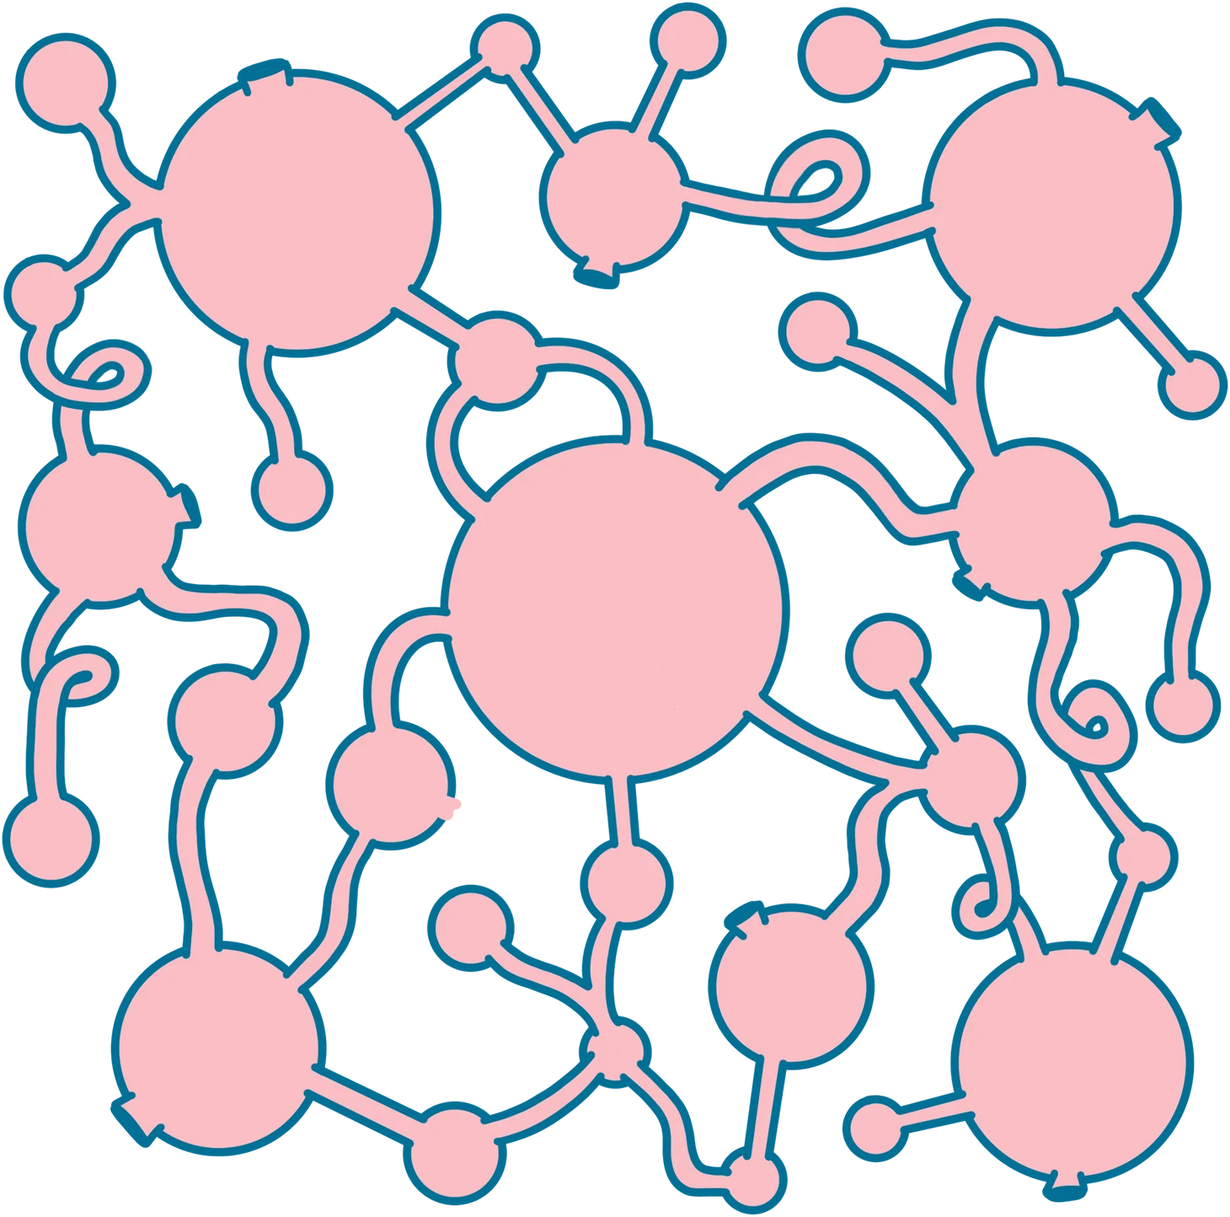
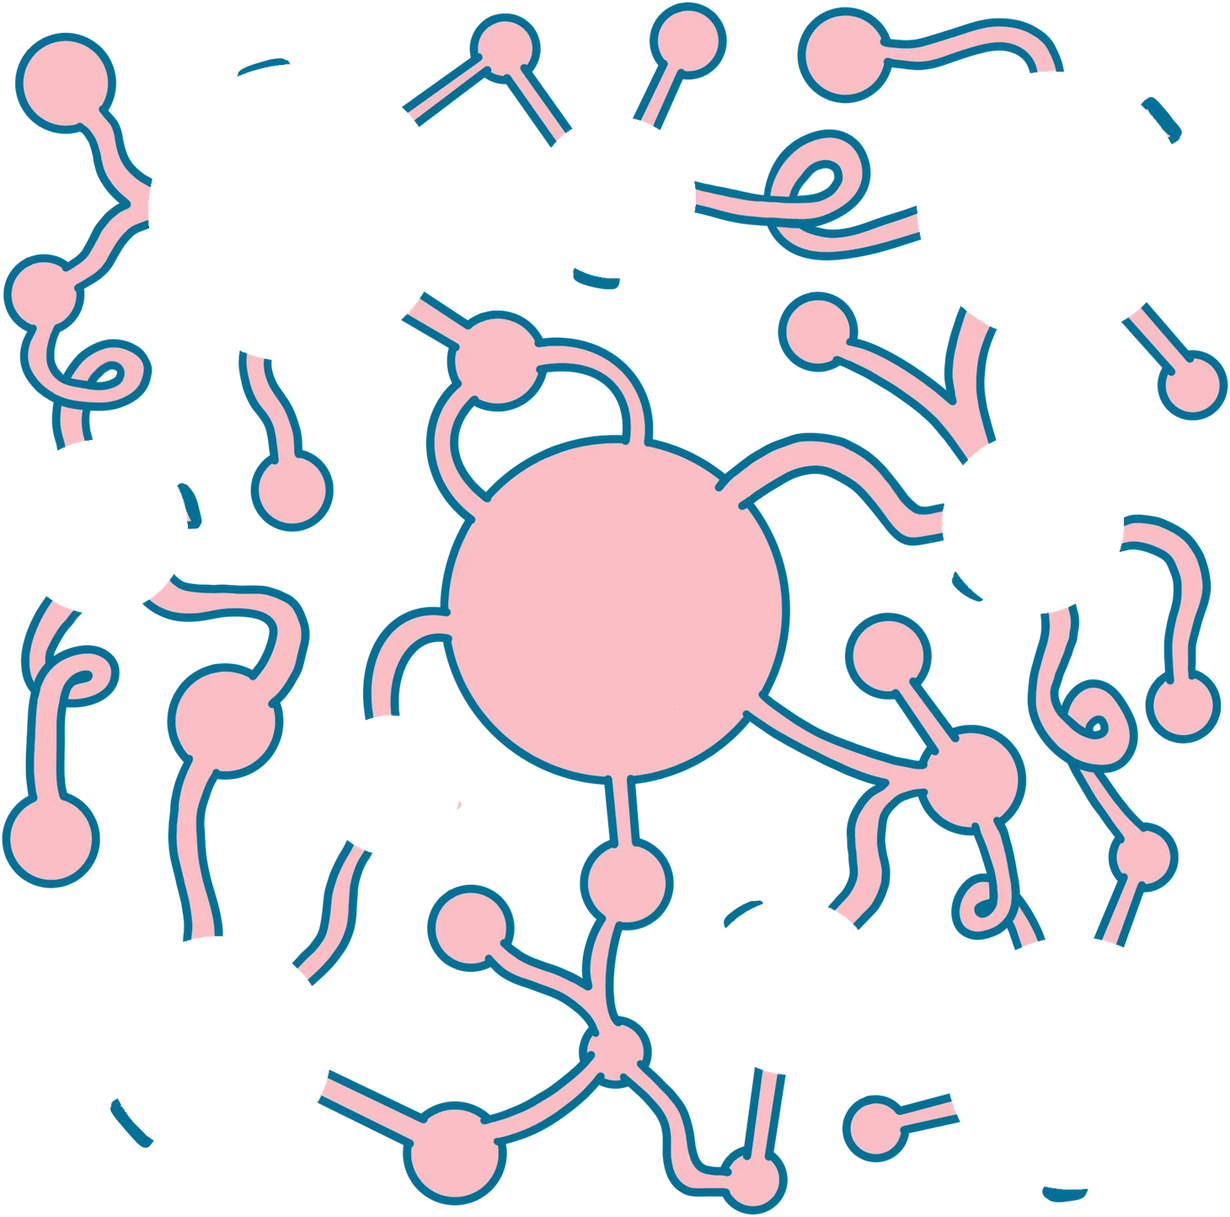
Kshanti: one long brush-stroke thread that weaves over and under the tubes and never crosses a bubble, with travelling bright stretches; pressing a cork pops it and empties its flask as if evaporating; the central sign fills everything back
Claude-Session: https://claude.ai/code/session_01LycLKxTQCdu9mKP8Zovfqs

diff --git a/src/components/scenes/SceneKshanti.vue b/src/components/scenes/SceneKshanti.vue
@@ -1,17 +1,26 @@
 <script setup>
     // Khanti (patience): a network of glass flasks joined by pink tubes, a little creature living in each one, over a field
     // of blue dots. The layers come from the artwork (public/assets/kshanti, each cropped to its box: kshantiLayers.json
-    // gives left, top, width, height in % of the 2160px square, the area and the main colour of each). The lavender
-    // threads sit behind the network and drift against it; the network, the creatures in the flasks and the glass over
-    // them float as one group, and each creature has its own small life (breathing, floating, wiggling...). The dots of
-    // the sky and the lavender specks are particles (useStardust), behind the drawings; touching a creature makes it
-    // flash and throw sparks of its colour, from a canvas in front.
+    // gives left, top, width, height in % of the 2160px square, the area and the main colour of each). The network, the
+    // creatures in the flasks, the glass over them and the line of lavender thread float as one group, and each creature
+    // has its own small life (breathing, floating, wiggling...).
+    //  - The lavender thread is a single long brush stroke (kshantiLine.json: a line traced from the artwork, with the
+    //    thickness the brush had at each point) that winds between the pink tubes without crossing a bubble, going over
+    //    one tube and under the next: it is drawn twice, once under the pink and once over it, and the copy over it only
+    //    shows where the line crosses in front (a mask). Two bright, tapering stretches of it travel along.
+    //  - Nine flasks have a cork (kshantiFlasks.json: each flask's pink is its own picture). Pressing a cork pops it and
+    //    the flask empties as if it evaporated: the pink level sinks, the creature fades up and vapour rises. Pressing the
+    //    central sign fills everything back.
+    //  - The blue dots of the sky and the lavender specks are particles; touching a creature makes it flash and throw
+    //    sparks of its colour, from a canvas in front.
     import { onBeforeUnmount, onMounted, ref, watch } from 'vue';
     import { createParallax, enterLayers } from '../../composables/useParallax.js';
     import { startStardust } from '../../composables/useStardust.js';
     import { createSparks } from '../../composables/useSparks.js';
     import { play } from '../../composables/useSound.js';
     import layers from '../../composables/kshantiLayers.json';
+    import flaskData from '../../composables/kshantiFlasks.json';
+    import LINE from '../../composables/kshantiLine.json';
 
     const props = defineProps({
         card: { type: Object, default: () => ({}) },
@@ -21,30 +30,45 @@
     const root = ref(null);
     const skyCanvas = ref(null);
     const frontCanvas = ref(null);
-    const threads = ref(null);
     const network = ref(null);
+    const wormBack = ref(null);
+    const wormFront = ref(null);
     const els = {};
     const setEl = (n) => (el) => { els[n] = el; };
     let parallax = null;
     let sky = null;
     let front = null;
     let entered = false;
+    let last = null;
+    let tick = 0;
 
     const pct = (v) => `${v}%`;
     const place = ([left, top, w, h]) => ({ left: pct(left), top: pct(top), width: pct(w), height: pct(h) });
 
     // The big drawings, from back to front, and the creatures and little things between them (the numbers are the
-    // artwork's layers: 3 pink bodies, 33 the central sign, 34 glass reflections, 35 outlines)
-    const big = { threads: 2, body: 3, shine: 34, lines: 35 };
-    const things = Object.keys(layers).map(Number).filter((n) => !Object.values(big).includes(n)).sort((a, b) => a - b)
+    // artwork's layers: 3 pink bodies, 33 the central sign, 34 glass reflections, 35 outlines, 36-44 the corks)
+    const big = { body: 3, shine: 34, lines: 35 };
+    const SIGN = 33;
+    const CORKS = [36, 37, 38, 39, 40, 41, 42, 43, 44];
+    const things = Object.keys(layers).map(Number).filter((n) => n !== 2 && !Object.values(big).includes(n)).sort((a, b) => a - b)
         .map((n) => ({ n, style: place(layers[n]), area: layers[n][4], color: layers[n][5] }));
     const under = things.filter((t) => t.n < big.shine);        // inside the flasks, under the glass
     const over = things.filter((t) => t.n > big.lines);         // on top of the outlines
-    const touchable = things.filter((t) => t.area > 3500).map((t) => {
-        const [left, top, w, h] = layers[t.n];
-        const size = Math.max(5, w, h) + 1;
-        return { ...t, hit: { left: pct((left + w / 2 - size / 2).toFixed(3)), top: pct((top + h / 2 - size / 2).toFixed(3)), width: pct(size.toFixed(3)), height: pct(size.toFixed(3)) } };
-    });
+    const hitBox = (n, min = 5, grow = 1) => {
+        const [left, top, w, h] = layers[n];
+        const size = Math.max(min, w, h) + grow;
+        return { left: pct((left + w / 2 - size / 2).toFixed(3)), top: pct((top + h / 2 - size / 2).toFixed(3)), width: pct(size.toFixed(3)), height: pct(size.toFixed(3)) };
+    };
+
+    // The flasks with a cork: how empty each is (level 0 full .. 1 empty, easing towards the target), how far its cork
+    // has popped, and which creature lives in it
+    const FLASKS = flaskData.map((f) => ({ ...f, style: place(f.box), level: 0, target: 0, pop: 0, shown: -1 }));
+    const flaskOfCreature = {};
+    const flaskOfCork = {};
+    FLASKS.forEach((f) => { f.creatures.forEach((n) => { flaskOfCreature[n] = f; }); flaskOfCork[f.cork] = f; });
+    const corkHits = FLASKS.map((f) => ({ flask: f, hit: hitBox(f.cork, 5.2, 1.5) }));
+    const signHit = hitBox(SIGN, 8, 1);
+    const touchable = things.filter((t) => t.area > 3500 && t.n !== SIGN && !CORKS.includes(t.n)).map((t) => ({ ...t, hit: hitBox(t.n) }));
 
     // Each creature's own small life, from its feet or its middle: [kind, origin, speed, amount]
     const LIFE = {
@@ -58,6 +82,37 @@
         23: ['drift', '50% 50%', 0.35, 1],        // the cloud
         22: ['sway', '50% 100%', 0.6, 1], 26: ['sway', '50% 100%', 0.5, 1],
         11: ['spin', '50% 50%', 0.25, 1], 17: ['spin', '50% 50%', -0.2, 1],
+    };
+    const smooth = (v) => v * v * (3 - 2 * v);
+
+    // ---- The thread: samples of x, y and half the thickness of the stroke, every few pixels of the 2160px square
+    const N = LINE.pts.length / 3;
+    const X = (i) => LINE.pts[3 * i];
+    const Y = (i) => LINE.pts[3 * i + 1];
+    const W = (i) => LINE.pts[3 * i + 2];
+    // A ribbon along samples a..b: the line pushed out by its thickness (times widthAt) on both sides
+    const ribbon = (a, b, widthAt) => {
+        const left = [], right = [];
+        for (let i = a; i <= b; i++) {
+            const i0 = Math.max(0, i - 1), i1 = Math.min(N - 1, i + 1);
+            let tx = X(i1) - X(i0), ty = Y(i1) - Y(i0);
+            const n = Math.hypot(tx, ty) || 1;
+            tx /= n; ty /= n;
+            const w = W(i) * widthAt(i);
+            left.push(`${(X(i) - ty * w).toFixed(1)} ${(Y(i) + tx * w).toFixed(1)}`);
+            right.push(`${(X(i) + ty * w).toFixed(1)} ${(Y(i) - tx * w).toFixed(1)}`);
+        }
+        return `M${left.join('L')}L${right.reverse().join('L')}Z`;
+    };
+    const TRACE_D = ribbon(0, N - 1, () => 1);
+    const FRONT_D = LINE.front.map(([a, b]) => `M${Array.from({ length: b - a + 1 }, (_, k) => `${X(a + k)} ${Y(a + k)}`).join('L')}`);
+    // A bright stretch: swells in the middle and tapers at both ends; where it runs past the end it comes back at the start
+    const WORM = Math.round(N * 0.09);
+    const wormD = (head) => {
+        const i0 = Math.floor(head);
+        const taper = (i) => 0.16 + 1.0 * Math.pow(Math.sin(Math.PI * Math.min(1, Math.max(0, ((i - i0 + N) % N) / WORM))), 0.7);
+        const end = i0 + WORM;
+        return end < N ? ribbon(i0, end, taper) : `${ribbon(i0, N - 1, taper)}${ribbon(0, end - N, taper)}`;
     };
 
     const live = (t, ramp) => {
@@ -83,15 +138,72 @@
                 default: ty = Math.sin(p * 1.4) * 0.22; tx = Math.cos(p * 0.9) * 0.12; rot = Math.sin(p * 1.1) * 3;
             }
             const k = ramp * amount;
-            s.translate = `${(tx * k).toFixed(3)}cqw ${(ty * k).toFixed(3)}cqw`;
-            s.rotate = `${(rot * k).toFixed(2)}deg`;
-            s.scale = `${(1 + (sx - 1) * k).toFixed(4)} ${(1 + (sy - 1) * k).toFixed(4)}`;
+            tx *= k; ty *= k; rot *= k; sx = 1 + (sx - 1) * k; sy = 1 + (sy - 1) * k;
+            // A creature whose flask is evaporating fades up and away; a popped cork jumps off its flask
+            const home = flaskOfCreature[n];
+            if (home) {
+                const gone = smooth(Math.min(1, home.level * 1.5));
+                ty -= gone * 1.6; sx *= 1 - gone * 0.14; sy *= 1 - gone * 0.14;
+                s.opacity = (1 - gone).toFixed(3);
+            }
+            const flask = flaskOfCork[n];
+            if (flask) { ty -= flask.pop * 1.8; rot += flask.pop * 32; tx += flask.pop * 0.5; }
+            s.translate = `${tx.toFixed(3)}cqw ${ty.toFixed(3)}cqw`;
+            s.rotate = `${rot.toFixed(2)}deg`;
+            s.scale = `${sx.toFixed(4)} ${sy.toFixed(4)}`;
         });
     };
 
-    // Touching a creature: it flashes and throws sparks of its own colour
-    const sparks = createSparks(360);
+    // The flasks: each one's pink sinks as it evaporates, and vapour rises from its surface
+    const sparks = createSparks(640);
+    const stepFlasks = (dt) => {
+        const canvas = frontCanvas.value?.getBoundingClientRect();
+        FLASKS.forEach((f) => {
+            const rate = f.target > f.level ? dt / 3.4 : dt / 1.6;
+            f.level = f.target > f.level ? Math.min(f.target, f.level + rate) : Math.max(f.target, f.level - rate);
+            f.pop += ((f.target > 0 ? 1 : 0) - f.pop) * Math.min(1, dt * 7);
+            const el = els[f.id];
+            if (el && Math.abs(f.level - f.shown) > 0.0005) {
+                f.shown = f.level;
+                const pos = `0 ${((1 - f.level) * 100).toFixed(2)}%`;
+                el.style.maskPosition = pos;
+                el.style.webkitMaskPosition = pos;
+                el.style.opacity = f.level >= 0.999 ? '0' : '1';
+            }
+            // Vapour from the surface while it is emptying
+            if (el && canvas && f.target > f.level && f.level < 0.98) {
+                const box = el.getBoundingClientRect();
+                const n = Math.round(dt * 120 * (0.5 + f.level)) + (Math.random() < dt * 120 % 1 ? 1 : 0);
+                for (let i = 0; i < n; i++) {
+                    sparks.burst(box.left + box.width * (0.22 + Math.random() * 0.56) - canvas.left, box.top + box.height * (0.05 + f.level * 0.9) - canvas.top, {
+                        n: 1, colors: [0xffffff, 0xffe3e8, 0xfbc4cf], speed: 16, life: 2.6, size: 4.6, spread: 4,
+                    });
+                }
+            }
+        });
+    };
+    const empty = (f, event) => {
+        if (f.target > 0) return;
+        f.target = 1;
+        const canvas = frontCanvas.value.getBoundingClientRect();
+        const box = event.currentTarget.getBoundingClientRect();
+        sparks.burst(box.left + box.width / 2 - canvas.left, box.top + box.height / 2 - canvas.top, { n: 14, colors: [0xffc470, 0xffe3a8, 0xffffff], speed: 90, size: 4.4, spread: 5 });
+        play('tap');
+    };
+    // The central sign: everything is filled again
+    const refill = (event) => {
+        FLASKS.forEach((f) => { f.target = 0; });
+        const canvas = frontCanvas.value.getBoundingClientRect();
+        const box = event.currentTarget.getBoundingClientRect();
+        sparks.burst(box.left + box.width / 2 - canvas.left, box.top + box.height / 2 - canvas.top, { n: 40, colors: [0xffffff, 0xcfeff0, 0xffd1dc], speed: 150, size: 5.2, spread: 10 });
+        els[SIGN]?.animate({ filter: ['brightness(1)', 'brightness(1.6)', 'brightness(1)'], scale: ['1', '1.16', '1'] }, { duration: 900, easing: 'ease-out' });
+        play('star');
+    };
+
+    // Touching a creature: it flashes and throws sparks of its own colour (nothing happens if its flask is empty)
     const touch = (thing, event) => {
+        const home = flaskOfCreature[thing.n];
+        if (home && home.level > 0.25) return;
         const box = event.currentTarget.getBoundingClientRect();
         const canvas = frontCanvas.value.getBoundingClientRect();
         const c = thing.color;
@@ -100,29 +212,34 @@
         els[thing.n]?.animate({ filter: ['brightness(1)', 'brightness(1.5) saturate(1.3)', 'brightness(1)'] }, { duration: 700, easing: 'ease-out' });
         play(thing.area > 15000 ? 'star' : 'tap');
     };
-    const onKey = (thing) => (event) => {
+    const onKey = (action) => (event) => {
         if (event.key !== 'Enter' && event.key !== ' ') return;
         event.preventDefault();
-        touch(thing, event);
+        action(event);
     };
 
     const enter = () => {
         if (entered || !props.active) return;
         entered = true;
-        enterLayers([
-            { el: threads.value, y: 40, scale: 0.9, duration: 2200 },
-            { el: network.value, y: 70, scale: 0.88, delay: 250, duration: 2000 },
-        ]);
+        enterLayers([{ el: network.value, y: 70, scale: 0.88, duration: 2000 }]);
     };
 
     onMounted(() => {
         parallax = createParallax(root.value, ({ x, y, scroll, t, ramp }) => {
-            // The threads hang behind and drift against the network; the network floats, its creatures floating in it
-            threads.value.style.translate = `${x * 22}px ${y * 12 + Math.sin(t * 0.35) * 8 * ramp - scroll * 20}px`;
-            threads.value.style.rotate = `${(Math.sin(t * 0.2) * 0.8 * ramp).toFixed(3)}deg`;
+            // The network floats, its creatures floating in it, and the thread with it
             network.value.style.translate = `${-x * 14}px ${-y * 7 + Math.sin(t * 0.5) * 7 * ramp - scroll * 40}px`;
             network.value.style.rotate = `${(Math.sin(t * 0.27) * 0.35 * ramp).toFixed(3)}deg`;
+            const dt = last === null ? 0 : Math.min(0.1, t - last);
+            last = t;
             live(t, ramp);
+            stepFlasks(dt);
+            // The bright stretches: two, half a turn apart, one turn in about a minute
+            if (tick++ % 2 === 0 && wormBack.value) {
+                const head = (Math.max(0, t) * N / 62) % N;
+                const d = `${wormD(head)}${wormD((head + N / 2) % N)}`;
+                wormBack.value.setAttribute('d', d);
+                wormFront.value.setAttribute('d', d);
+            }
         });
         sky = startStardust(skyCanvas.value, {
             groups: [
@@ -147,17 +264,44 @@
 
         <!-- A square frame; every layer is placed as a fraction of it, as in the illustration -->
         <div class="frame">
-            <img class="layer" ref="threads" :style="place(layers[big.threads])" src="/assets/kshanti/k2.webp" alt="" draggable="false">
-
             <div class="network" ref="network">
+                <!-- The lavender thread, under the pink: the whole line, and a bright stretch travelling along it -->
+                <svg class="thread" viewBox="0 0 2160 2160" aria-hidden="true">
+                    <path class="trace" :d="TRACE_D" />
+                    <path class="worm" ref="wormBack" />
+                </svg>
+
                 <img class="layer" :style="place(layers[big.body])" src="/assets/kshanti/k3.webp" alt="" draggable="false">
+                <img v-for="f in FLASKS" :key="f.id" class="layer flask" :ref="setEl(f.id)" :style="f.style" :src="`/assets/kshanti/${f.id}.webp`" alt="" draggable="false">
                 <img v-for="t in under" :key="t.n" class="layer" :ref="setEl(t.n)" :style="t.style" :src="`/assets/kshanti/k${t.n}.webp`" alt="" draggable="false">
                 <img class="layer" :style="place(layers[big.shine])" src="/assets/kshanti/k34.webp" alt="" draggable="false">
                 <img class="layer" :style="place(layers[big.lines])" src="/assets/kshanti/k35.webp" alt="" draggable="false">
+
+                <!-- ...and over it, only where the thread crosses in front of a tube or a flask -->
+                <svg class="thread" viewBox="0 0 2160 2160" aria-hidden="true">
+                    <defs>
+                        <mask id="kshanti-front" maskUnits="userSpaceOnUse" x="0" y="0" width="2160" height="2160">
+                            <path v-for="(d, i) in FRONT_D" :key="i" :d="d" fill="none" stroke="#fff" stroke-width="80" stroke-linecap="round" stroke-linejoin="round" />
+                        </mask>
+                    </defs>
+                    <g mask="url(#kshanti-front)">
+                        <path class="trace" :d="TRACE_D" />
+                        <path class="worm" ref="wormFront" />
+                    </g>
+                </svg>
+
                 <img v-for="t in over" :key="t.n" class="layer" :ref="setEl(t.n)" :style="t.style" :src="`/assets/kshanti/k${t.n}.webp`" alt="" draggable="false">
+
+                <!-- What can be touched: the corks, the creatures and the central sign -->
+                <div v-for="c in corkHits" :key="'cork' + c.flask.id" class="hit" role="button" tabindex="0" :style="c.hit"
+                    :aria-label="$i18n.locale === 'en' ? 'Cork' : 'Tapón'"
+                    @pointerdown.prevent="empty(c.flask, $event)" @keydown="onKey((e) => empty(c.flask, e))($event)"></div>
                 <div v-for="t in touchable" :key="'hit' + t.n" class="hit" role="button" tabindex="0" :style="t.hit"
                     :aria-label="$i18n.locale === 'en' ? 'Creature' : 'Criatura'"
-                    @pointerdown.prevent="touch(t, $event)" @keydown="onKey(t)($event)"></div>
+                    @pointerdown.prevent="touch(t, $event)" @keydown="onKey((e) => touch(t, e))($event)"></div>
+                <div class="hit" role="button" tabindex="0" :style="signHit"
+                    :aria-label="$i18n.locale === 'en' ? 'Fill everything again' : 'Volver a llenar todo'"
+                    @pointerdown.prevent="refill" @keydown="onKey(refill)($event)"></div>
             </div>
         </div>
         <canvas class="field front" ref="frontCanvas"></canvas>
@@ -210,6 +354,36 @@
         max-width: none;
         user-select: none;
         pointer-events: none;
+    }
+
+    /* A flask's pink: a soft edge that sinks as the mask slides (see stepFlasks) */
+    .flask {
+        -webkit-mask-image: linear-gradient(to bottom, transparent 44%, #000 56%);
+        mask-image: linear-gradient(to bottom, transparent 44%, #000 56%);
+        -webkit-mask-size: 100% 200%;
+        mask-size: 100% 200%;
+        -webkit-mask-repeat: no-repeat;
+        mask-repeat: no-repeat;
+        -webkit-mask-position: 0 100%;
+        mask-position: 0 100%;
+    }
+
+    .thread {
+        position: absolute;
+        inset: 0;
+        width: 100%;
+        height: 100%;
+        overflow: visible;
+        pointer-events: none;
+    }
+
+    .trace {
+        fill: #aaa8d2;
+        opacity: 0.55;
+    }
+
+    .worm {
+        fill: #bfbcee;
     }
 
     .hit {

diff --git a/CLAUDE.md b/CLAUDE.md
@@ -50,7 +50,7 @@ These cannot see what a real GPU or a real phone does (flicker, disappearing lay
 - `SceneCreatividad` (20) uses its own layers in `public/assets/creatividad` (crown, organelles, larva...), each cropped to its box (fractions of the 3240px original, `PIECES` in the component). The inside of the cell is a watery system (`useCellWater.js`): the organelles bob about and the larva floats slowly, bouncing off them and off the cell wall (circles in `PIECES`). The interior and the nucleus are CSS discs; the nucleus's stipple and the orange dust are particles (the halo is a density map of the original, `creatividadDust.json`; only a thin fringe stays baked in the crown picture). The crown and its touchable mushroom caps (`creatividadCaps.json`) turn together; touching a cap throws spores (`useSparks.js`). The crown moves with the interior (no separate parallax), or a gap shows between the two. The artwork's PNG originals are not kept in the repo (they are in its git history); layers are exported to WebP, never ship PNGs.
 - `SceneHogar` (25) is built like Creatividad, from the layers in `public/assets/hogar` and `hogarScene.json` (boxes in % of the 3240px square, circles for collisions, the interior's drawn outline as an SVG path): a crown of corals and weeds that turns slowly, each piece swaying from where it hangs, touchable (squash + spores); inside, the same watery system (`useCellWater.js`) with the organelles bobbing and a jellyfish swimming and bumping into them. The orange halo (`hogarDust.json`) and the nucleus's fuzzy rim are particles.
 - `SceneEvolucion` (22) is built like Hogar from `public/assets/evolucion` and `evolucionScene.json`: a fern crown with eight glowing bulbs on stalks and four mushrooms (they sway from where they hang and can be touched: their glow flares and sparks fly), all turning slowly with a canvas of glow particles behind them (the stippled rings of `evolucionHalo.json` and a cloud of dots around each bulb and mushroom; `useStardust.js` measures a canvas by its layout size so it can sit inside a turning element); the watery interior has the organelles bobbing and a curled-up being bumping into them. The interior's drawn silhouette is drawn a little bigger than the artwork's, so the turning crown never leaves a gap (Hogar does the same).
-- `SceneKshanti` (5) is built from 43 layers in `public/assets/kshanti` (`kshantiLayers.json`: box, area and colour of each, in % of the 2160px square): lavender threads behind, and one floating group of the pink bodies, the creatures in the flasks (each with its own small life, `LIFE` in the component), the glass reflections and the outlines. The blue dots of the sky and the lavender specks are particles. Touching a creature makes it flash and throw sparks of its colour (`useSparks.js`, from a canvas in front).
+- `SceneKshanti` (5) is built from the layers in `public/assets/kshanti` (`kshantiLayers.json`: box, area and colour of each, in % of the 2160px square): the pink bodies, the creatures in the flasks (each with its own small life, `LIFE` in the component), the glass reflections, the outlines and the corks, all floating as one group. The lavender thread is one long brush stroke (`kshantiLine.json`: samples of x, y and half-thickness, traced from the artwork and rerouted so it never crosses a bubble), drawn as a ribbon twice, under the pink and over it, the second copy masked to the stretches where it crosses in front, so it weaves over and under the tubes; two tapering bright stretches travel along it. Nine flasks have a cork and their own pink picture (`kshantiFlasks.json`, `f1..f9`): pressing a cork pops it and the flask empties as if it evaporated (the pink sinks behind a sliding mask, the creature fades up, vapour rises); pressing the central sign fills everything back. The blue dots of the sky and the lavender specks are particles. Touching a creature makes it flash and throw sparks of its colour (`useSparks.js`, from a canvas in front).
 - `ScenePanna` (id 3): the line work (Sid, branches, leaves, mushroom outlines, the walls of the forest) is a set of layers in `public/assets/panna`, each cropped to its own box (`pannaLayers.json`, fractions of the original 2160px square). All the colour (sun, Sid's aura, fireflies' halos, blue mushrooms, the mushrooms' pink glow) and the stippled edge of the floor are particles behind the line work, drawn from density maps of the original stipple (`pannaClouds.json`); the floor itself is a drawn SVG silhouette. The spiral from the sun to Sid's forehead and the sparks are `dynamic` particle groups in front. The fireflies, the blue mushrooms, Sid and the sun can be touched (flare + sparks; the sun makes everything answer). The particles stay hidden (`manual` + `reveal()`) until all the drawings are decoded. The centre lives in a square frame; the surroundings are a slightly bigger square whose left and right halves are anchored to the screen's sides, with a vertically flipped copy above it so the forest reaches the top. Card pages let the pointer through the fixed header (see `Card.vue`) so a scene's top can be touched.
 - **Particles and stars are never pictures:** wherever an asset is a field of dots, stars or dust, the scene draws it as real particles instead, with `useStardust.js` (three.js `Points`, one canvas can hold several groups, each one draw call, with `shift(i, x, y)` to follow a layer's parallax and `dynamic` groups that move every frame; `look: 'hard'` for the flat dots of the night skies, `'soft'` for glowing dust or embers; `startStardust` is the safe way to start one from a component).
 - Every other card uses `SceneFlat` (its square illustration, feathered into the card colour, drifting slowly).
